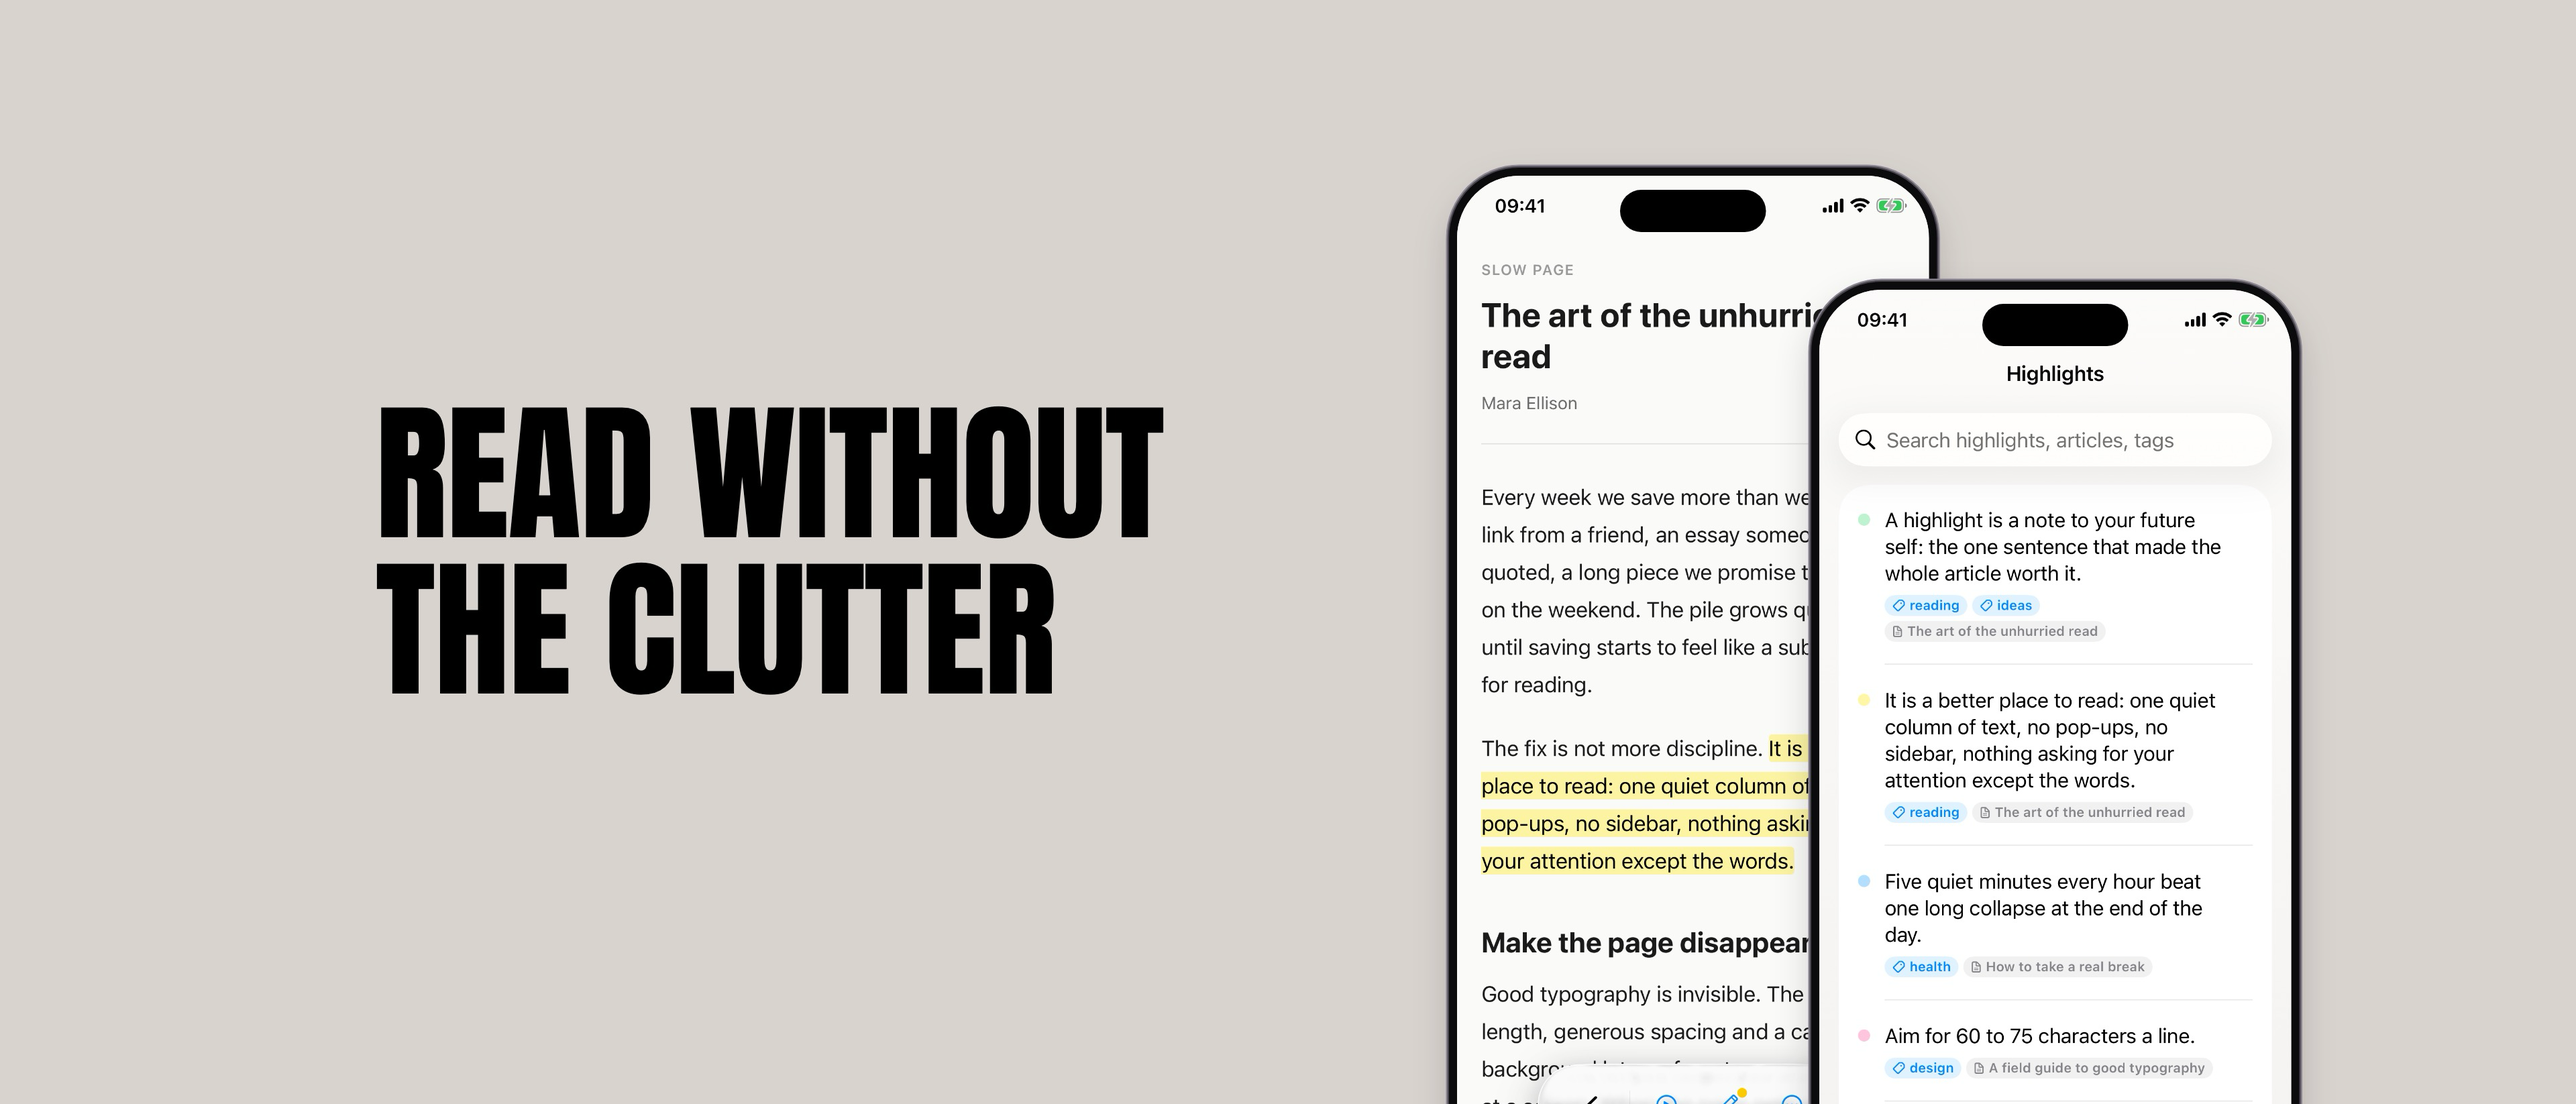
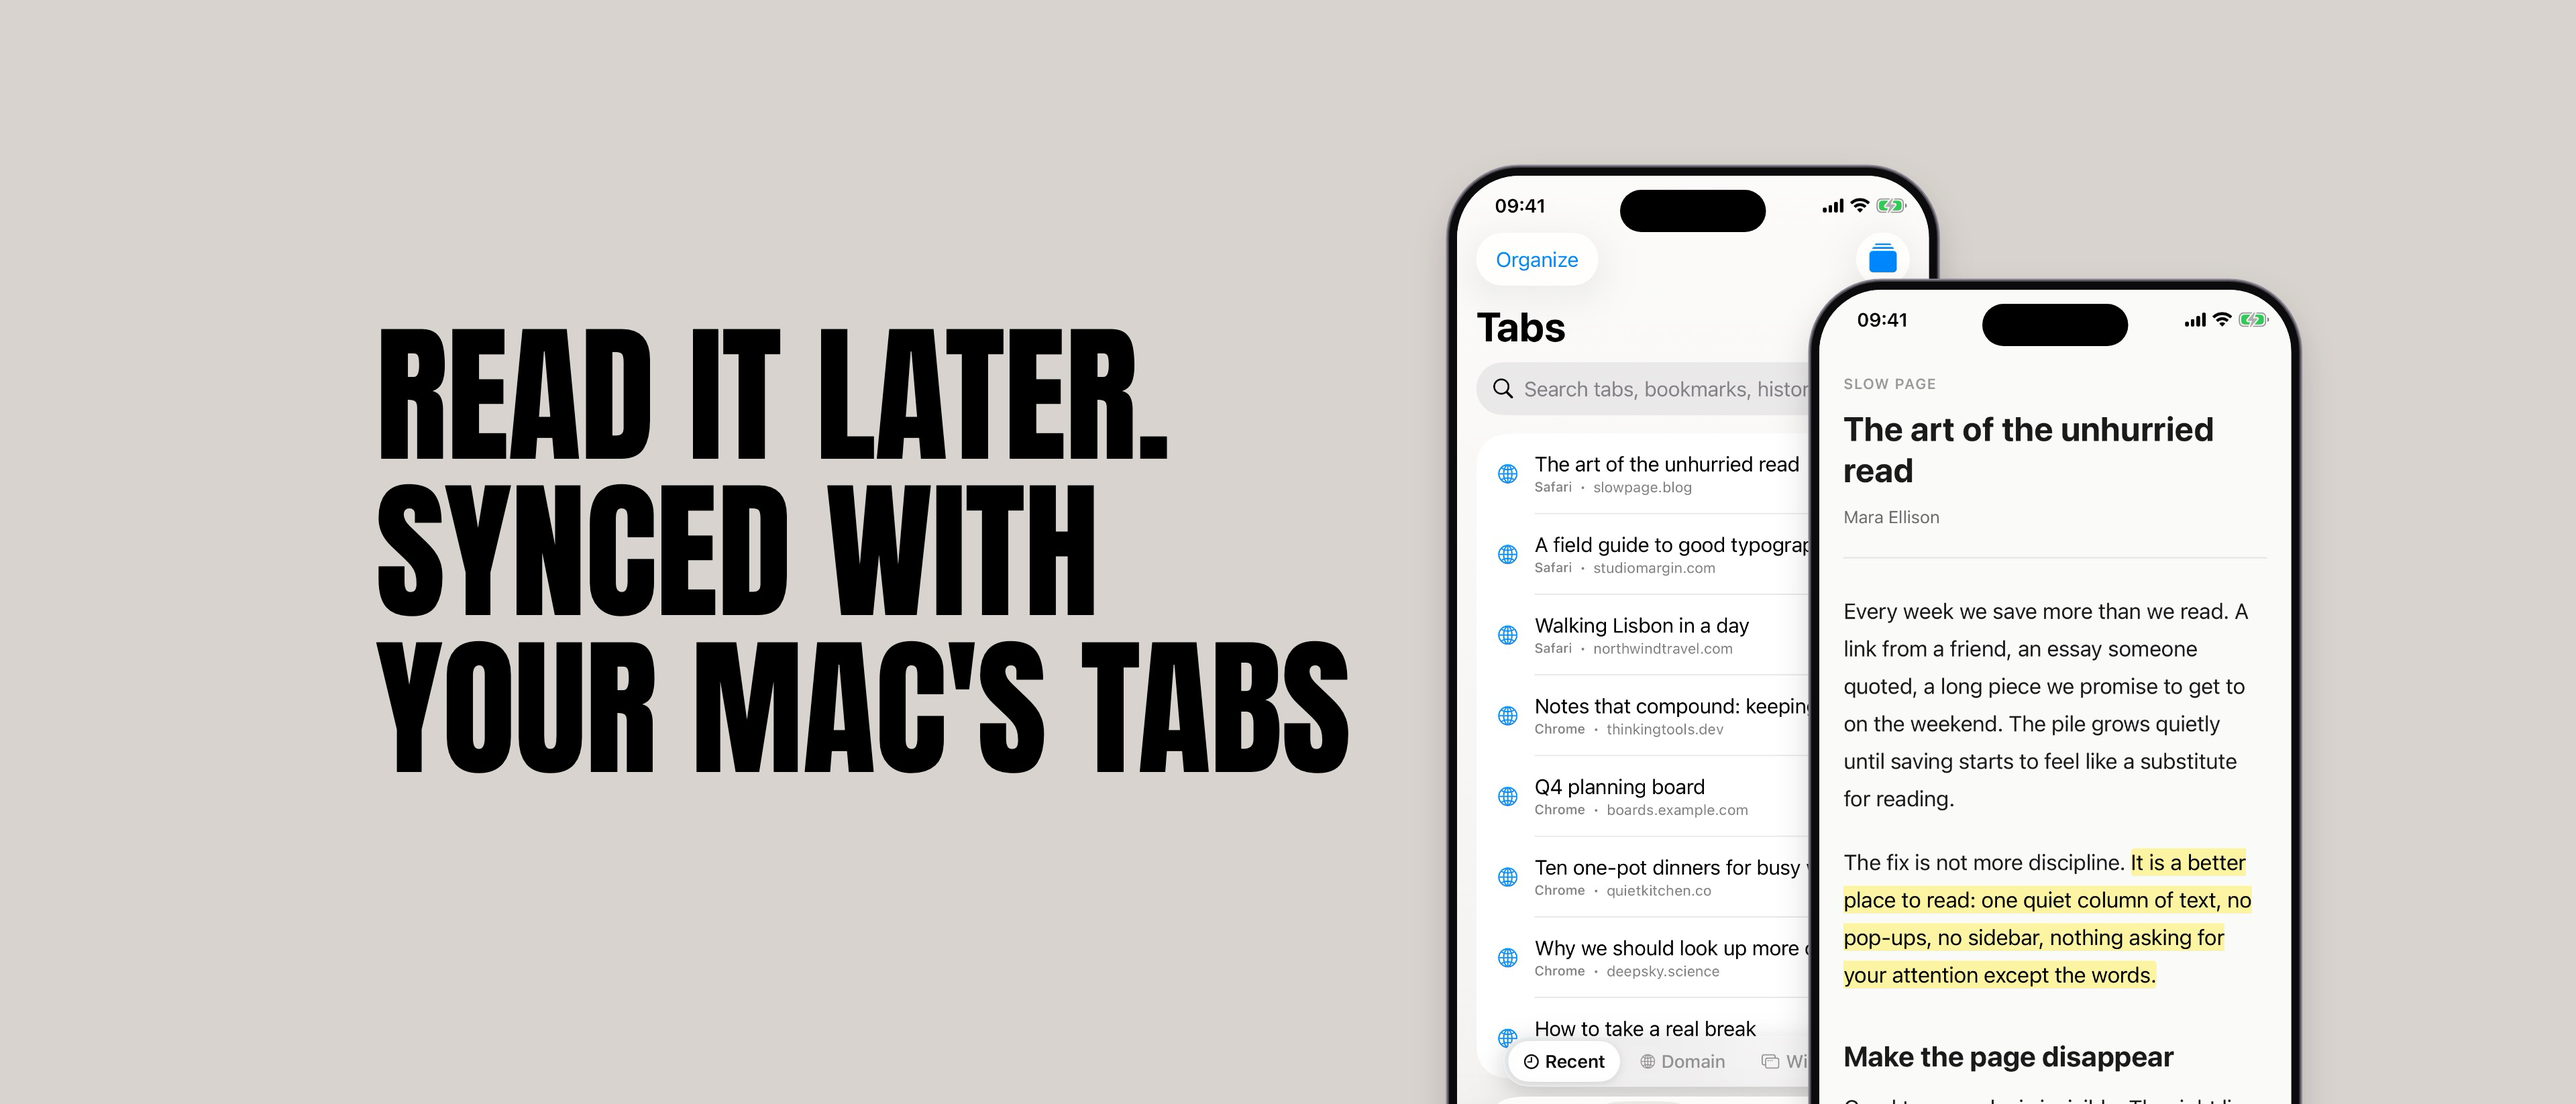
FastTab Reader listing: lead with Mac tab/bookmark sync (subtitle, promo, keywords, description, 6 captions), privacy draft, re-rendered media

diff --git a/marketing/appstore/listing.md b/marketing/appstore/listing.md
@@ -1,90 +1,120 @@
 # FastTab Reader — App Store listing (iOS, first submission)
 
 App: `app.theindie.FastTabMobile` · team `56S46Y7CKN` (The Indie App) · version 1.0.0 (build 1) · **iPhone only**.
-Media: `en/fasttab-reader-*.png` (1320x2868, 4 shots) · `creative/en/` (iOS 27 header + search) · no preview video.
+Media: `en/fasttab-reader-*.png` (1320x2868, 6 shots) · `creative/en/` (iOS 27 header + search) · no preview video.
 Regenerate: `tools/capture.sh` → appstore-media `render.sh tools` + `creative.sh tools` (see `~/.claude/skills/appstore-media`).
+Lead message (owner, 2026-10-30): **read later + sync with your Mac's browser tabs and bookmarks.**
 
 ## en-US
 
 **Name** (14/30): `FastTab Reader`
 
-**Subtitle** (≤30) — owner picks one:
-| Option | Chars | Angle |
-| --- | --- | --- |
-| A `Read later, without clutter` | 27 | broad read-later search terms (recommended) |
-| B `Clean reader & highlights` | 25 | highlights angle |
-| C `Save articles, read them calm` | 29 | calm reading |
+**Subtitle** (27/30): `Read later, synced with Mac`
 
-**Promotional text** (≤170):
-> Save any article from the share sheet and read it later in one quiet column. Highlight the lines worth keeping and find them all in one place.
+**Promotional text** (57/170, owner's sentence):
+> Read it later, sync with your browser tabs and bookmarks.
 
-**Keywords** (≤100 bytes, no spaces after commas; name/subtitle words not repeated):
-`later,article,highlight,reading,list,pocket,instapaper,offline,distraction,focus,save,web,clean,text`
-(100 bytes, at the limit — `printf %s "$k" | wc -c`). Owner: competitor names (`pocket`, `instapaper`) are allowed as keywords but Apple sometimes rejects them; drop them if you want zero risk.
+**Keywords** (98/100 bytes, `printf %s "$k" | wc -c`; name/subtitle words not repeated):
+`later,article,highlight,reading,list,sync,tabs,bookmarks,browser,safari,chrome,offline,save,icloud`
+(`safari`/`chrome` = supported browsers, not competitors; drop them if review objects.)
 
 **Description** (≤4000):
 ```
-FastTab Reader is a calm place for the articles you meant to read.
+FastTab Reader brings the tabs and bookmarks from your Mac's browsers to your iPhone, and gives you a calm place to read them.
 
-SAVE IT NOW
-Share any link to FastTab from Safari or any app. It lands in your FastTab List, ready when you have a quiet moment.
+YOUR MAC'S TABS ON YOUR IPHONE
+With FastTab for Mac, the tabs open in Safari, Chrome, Brave and Edge show up on your iPhone, grouped by Mac and browser. Search them, open any one in Reader, or close it on your Mac from your phone.
+
+YOUR BROWSER BOOKMARKS, SYNCED
+Your Mac's bookmarks arrive with their folders, ready to browse and search. Bookmarks you haven't opened in a while come back on the Read tab.
+
+SAVE IT NOW, READ IT LATER
+Share any link to FastTab from Safari or any app. It lands in your FastTab List, on every device you use FastTab on.
 
 READ WITHOUT THE CLUTTER
-Open an article and FastTab strips away ads, pop-ups and sidebars, leaving one clean column of text. Pick your font, size and spacing. Close it halfway and it picks up where you stopped.
-
-LISTEN WHEN YOUR EYES ARE BUSY
-Read Aloud plays any article out loud.
+Open an article and FastTab strips away ads, pop-ups and sidebars, leaving one clean column of text. Pick your font, size and spacing. Close it halfway and it picks up where you stopped. Read Aloud plays any article out loud.
 
 KEEP WHAT MATTERS
 Long-press to highlight a passage in one of four colours, tag it, and add a comment. Every highlight is collected in one searchable place, linked back to its article.
 
-REDISCOVER
-Shuffle deals out random cards from everything you saved. Home Screen widgets show what is up next and how close you are to your daily reading goal.
-
-SEE HOW MUCH YOU READ
-Weekly charts of words read, articles finished and highlights, by topic.
+SEE HOW YOU READ AND BROWSE
+Weekly charts of words read, articles finished and highlights, plus how many tabs you keep open on your Macs.
 
 PRIVATE BY DESIGN
-No sign-up needed to read. Your list and highlights sync between your devices through your own iCloud account.
+Tabs, bookmarks, your list and highlights sync through your own iCloud account. No sign-up needed. An optional Sign in with Apple account is used only for YouTube transcripts.
 
-HAVE A MAC?
-FastTab for Mac is optional. Connect it and your open Mac tabs appear on your iPhone too.
+NO MAC? NO PROBLEM
+FastTab Reader works on its own as a read-later app. Add FastTab for Mac any time and your tabs and bookmarks appear.
 
 Privacy policy: https://fasttab.theindie.app/privacy
 ```
 
-**Support URL**: https://theindie.app/support (200) · **Marketing URL**: https://fasttab.theindie.app/ (200) · **Privacy URL**: https://fasttab.theindie.app/privacy (200 — content must be checked for iOS, see below).
+**Support URL**: https://theindie.app/support (200) · **Marketing URL**: https://fasttab.theindie.app/ (200) · **Privacy URL**: https://fasttab.theindie.app/privacy (200, but **Mac-only text, see Privacy below**).
 
-**Screenshot captions** (`tools/captions.json`): 1 READ WITHOUT THE CLUTTER · 2 EVERY HIGHLIGHT IN ONE PLACE · 3 SAVE IT NOW. READ IT LATER. · 4 SEE HOW MUCH YOU READ.
+**Screenshot captions** (`tools/captions.json`): 1 YOUR MAC'S TABS ON YOUR IPHONE · 2 YOUR BROWSER BOOKMARKS, SYNCED · 3 READ THEM WITHOUT THE CLUTTER · 4 EVERY HIGHLIGHT IN ONE PLACE · 5 SAVE IT NOW. READ IT LATER. · 6 SEE HOW YOU READ AND BROWSE.
 
 ## Verified claims
 | Claim | Evidence (code) | Status |
 | --- | --- | --- |
-| Save from share sheet into FastTab List | `FastTabShare/ShareViewController.swift`, `SavedOnIPhoneStore` pending saves | ✅ |
-| Clean reader, no ads/sidebars | `Reader/ReaderExtractor.swift` (Readability), `reader_template.html` | ✅ |
-| Font / size / spacing choice | `Reader/ReaderReadingSettings.swift` (8 system fonts) | ✅ |
-| Resumes where you stopped | `ReaderReadingProgress`, onboarding sample article states it | ✅ |
+| **Mac browser tabs on iPhone** | Mac `SyncService` publishes `SyncedTab` (title, URL, browser, window) to CloudKit; iPhone `LocalCache.updateTab` → `TabListView` | ✅ **needs FastTab for Mac** running |
+| Browsers: Safari, Chrome, Brave, Edge | Mac browser enum (`case safari/chrome/brave/edge`) | ✅ |
+| **Bookmarks synced, with folders** | Mac `SyncService.updateBookmarks` → `SyncedBookmarkBlob` per browser/profile with `folderPath`; iPhone `BookmarkTreeView` | ✅ needs FastTab for Mac |
+| Close a Mac tab from iPhone | P2 remote close (`closeTabWithResult`), `PendingTabCloseStrip` | ✅ |
+| Old bookmarks resurface on Read | `RecentAddedProvider` / `EmergingContentProvider` | ✅ |
+| FastTab List syncs across devices | `FastTabListSyncBridge`, CloudKit ReaderZone | ✅ |
+| Highlights sync | `ReaderHighlightStore` ↔ ReaderZone (`syncedHighlights`) | ✅ |
+| History sync | `SyncedHistorySlice` | ✅ (not claimed in copy) |
+| "Sync with your browser" without a Mac | — | ❌ **not true**: iPhone never reads a browser directly; sync is Mac browsers → FastTab for Mac → iCloud. Copy says "with FastTab for Mac" / "synced with Mac". |
+| Save from share sheet into FastTab List | `FastTabShare/ShareViewController.swift` | ✅ |
+| Clean reader, font/size/spacing, resume | `ReaderExtractor`, `ReaderReadingSettings` (8 fonts, size, line height), `ReaderReadingProgress` | ✅ |
 | Read Aloud | `Reader/ReadAloud/` | ✅ |
-| 4 highlight colours, tags, comments | `HighlightColor` (yellow/green/blue/pink), `ReaderHighlight.tags`, `ReaderCommentThreads` | ✅ |
-| All highlights searchable in one place | `Views/HighlightsListView.swift` (search field) | ✅ |
-| Shuffle | `Views/RandomLinksView.swift` | ✅ |
-| Widgets: Up Next, Reading Ring (daily goal), Shuffle | `FastTabWidgets/` | ✅ |
-| Weekly reading stats by topic | `Stats/`, `Views/Stats/ReadingStatsCard.swift` | ✅ (shot 4 uses demo data) |
-| No sign-up to read | reader-only mode works signed out; account only for YouTube transcripts (`FastTabMobile/Account/`) | ✅ |
-| Sync via user's own iCloud | CloudKit private DB `iCloud.app.theindie.FastTab` (list via ReaderZone) | ✅ — needs Production CloudKit schema |
-| Mac tabs on iPhone (optional) | `TabListView`, `AppMode` mac mode | ✅ |
-| Dropped: "end-to-end encrypted" | true for CloudKit `encryptedValues` fields only; not claimed to avoid over-claiming | — |
-| Dropped: YouTube transcripts / AI clean-up | needs account + server; AI reformat gated off (`PowerUpGate`) | — |
+| 4 colours, tags, comments, searchable highlights | `HighlightColor`, `ReaderHighlight.tags`, `ReaderCommentThreads`, `HighlightsListView` | ✅ |
+| Reading + tab stats | `ReadingStatsCard`, `TabStatsCard` | ✅ (shot 6 = demo data) |
+| Sync via user's own iCloud | CloudKit private DB `iCloud.app.theindie.FastTab` | ✅ needs Production schema |
+| Sign in with Apple only for YouTube transcripts | `project.yml` comment, `YouTubeTranscriptLoader` reads account token | ✅ |
+| Dropped: "end-to-end encrypted" | only CloudKit `encryptedValues` fields | — |
 
-Demo data: fictional sites/authors/articles written for the shots (`ios/FastTabMobile/AppStoreDemo.swift`), no real user data, no employer/internal names.
+Demo data: fictional sites/authors/articles/tabs (`ios/FastTabMobile/AppStoreDemo.swift`), no real user data, no employer/internal names. Thumbnails stay grey placeholders: the card image loader only accepts http(s) images, so seeding them would mean a code change in `LinkCardImageLoader` (not cheap).
+
+## Privacy
+**Current page** (fasttab.theindie.app/privacy, May 2026) covers the **Mac app only** and says "No account data … does not require an account … or third-party login" — **wrong for the iPhone app once Sign in with Apple ships. Must be updated before submission.**
+
+**App Privacy answers (ASC, draft):**
+| Data type | Collected | Linked to user | Tracking | Purpose |
+| --- | --- | --- | --- | --- |
+| Contact Info → Email address (Apple relay or real, only if user shares) | Yes | Yes | No | App Functionality (account) |
+| Contact Info → Name (if user shares in Sign in with Apple) | Yes | Yes | No | App Functionality |
+| Identifiers → User ID (Apple user id / theindie account id) | Yes | Yes | No | App Functionality |
+| Other: device name (sent with account sign-in, `AccountSession.live(deviceName:)`) | Yes (Other Data) | Yes | No | App Functionality |
+| Tabs, bookmarks, history, list, highlights | **Not collected** (user's own iCloud private DB; developer has no access) | — | — | — |
+Owner/engineer to confirm: what theindie-api stores for a YouTube transcript request (video ID? logged?) — if stored with the account, add "Usage Data / Other" for App Functionality.
+
+**Draft text to add to the privacy page (not published):**
+```
+FastTab Reader for iPhone
+
+Synced through your iCloud. Tabs, bookmarks and history from FastTab for Mac, your FastTab List,
+reading progress and highlights sync between your devices through your own private iCloud
+database. We cannot read this data; Apple stores it under your Apple Account.
+
+Optional account. You can sign in with Apple to use YouTube transcripts. If you do, our account
+server (api.theindie.app) stores your Apple user identifier, the email address Apple shares with
+us (which may be a private relay address), your name if you choose to share it, and the name of
+your device. We use this only to run your account and the features that need it. We do not sell
+it, use it for advertising, or track you across apps. You can delete your account in
+More → theindie account, which removes this data from our server.
+
+On-device. Reading statistics and Read Aloud run on your iPhone and are not sent to us.
+```
+(In-app account deletion verified: `AccountSettingsView` "Delete your account?".)
 
 ## Pre-submit checklist (status 2026-10-29; nothing written to App Store Connect)
-- [ ] **New icon committed** — new "fast tab reader" icon is only an uncommitted edit on the Pro (another session); Air + git still have the old swirl. Its art has a baked-in rounded square + border inside the 1024 canvas → iOS masks it again (double frame). Re-export full-bleed.
+- [x] New icon committed full-bleed (`8effec4`), owner approval of the exact PNG pending
 - [ ] **CloudKit**: deploy `iCloud.app.theindie.FastTab` schema to Production; entitlements say `Development` (`icloud-container-environment`, `aps-environment`) — confirm the archive/export flips both to Production.
 - [ ] ASC app record exists for `app.theindie.FastTabMobile` with name "FastTab Reader" (name must be free)
 - [ ] Archive + upload build 1.0.0 (1), iPhone only; Release build signed for distribution
-- [ ] Privacy policy page covers the iPhone app (iCloud sync, Sign in with Apple account for transcripts, no tracking)
-- [ ] App Privacy (web): likely "Data not collected" except account (email/user ID, linked, app functionality) if Sign in with Apple stays in v1
+- [ ] **Privacy page updated** with the iPhone section (draft above) and published
+- [ ] App Privacy (web): answers per the table above (Sign in with Apple stays in v1), then Publish
 - [ ] Age rating · category (Primary: News or Productivity / Secondary: Books) · content rights · copyright "2026 The Indie App"
 - [ ] Review contact incl. phone; review notes: "No login needed; share any link to FastTab, open it from Read"
 - [ ] Pricing (Free per memory decision) · availability
